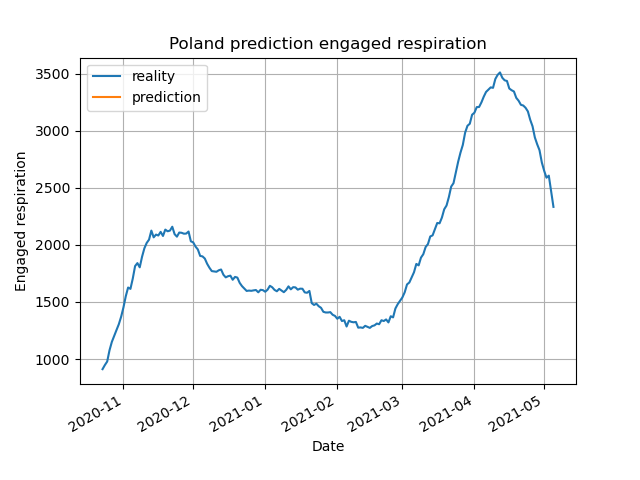
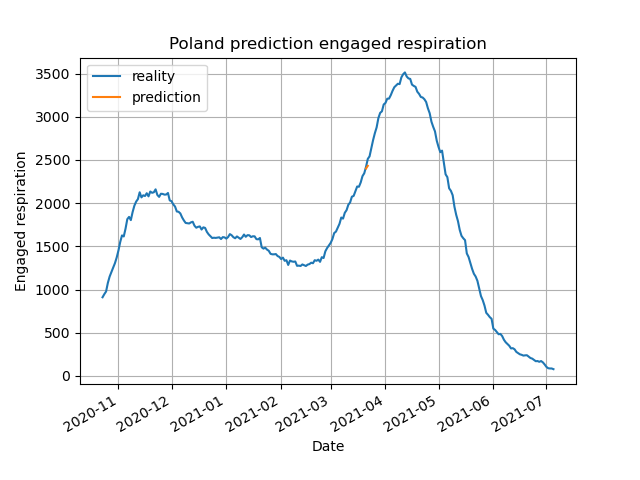
sort by date in get all merge data

diff --git a/RNN/prediction/make_prediction_and_plots.py b/RNN/prediction/make_prediction_and_plots.py
@@ -23,11 +23,11 @@ import pandas as pd
 
 def make_prediction_and_subplot_for_all_regions(last_day_train='2021-03-20', day_ahead=30, period_of_time=14,
                                                 subplot=True):
-    data_all_days = get_all_merge_data()
+    data_all_days_org = get_all_merge_data()
 
     # print(last_day_train)
 
-    data_all_days = data_all_days[data_all_days["region"] != 'POLSKA']
+    data_all_days = data_all_days_org[data_all_days_org["region"] != 'POLSKA']
 
     results = make_prediction_n_days_ahead(data_all_days, day_ahead=day_ahead,
                                                           period_of_time=period_of_time,last_day_train= last_day_train)
@@ -40,7 +40,7 @@ def make_prediction_and_subplot_for_all_regions(last_day_train='2021-03-20', day
 
     # results.iloc[:, -1] = results.iloc[:, -1] * 16
     results.loc[results['region'] == 'POLSKA', 'prediction'] = results.loc[results['region'] == 'POLSKA', 'prediction'] * 16
-    # plot_prediction_to_poland_from_results([results], ['prediction'], get_all_merge_data_from_to())
+    plot_prediction_to_poland_from_results([results], ['prediction'], data_all_days_org)
 
     return results
 

diff --git a/RNN/main.py b/RNN/main.py
@@ -1,7 +1,7 @@
 from RNN.prediction.make_prediction_and_plots import make_prediction_and_subplot_for_all_regions, \
     make_plots_relative_error_for_regions
-result = make_prediction_and_subplot_for_all_regions(day_ahead=1,period_of_time=7)
-# make_plots_relative_error_for_regions(prediction = result)
+result = make_prediction_and_subplot_for_all_regions(day_ahead=30,period_of_time=7)
+make_plots_relative_error_for_regions(prediction = result)
 
 # %% now
 result = make_prediction_and_subplot_for_all_regions(last_day_train= None,day_ahead=2,period_of_time=7)

diff --git a/prepareData/merge/merge_all_data.py b/prepareData/merge/merge_all_data.py
@@ -18,6 +18,7 @@ def get_all_merge_data(number_of_gaussian_noise_regions=1):
     merge_data_all_days = get_merge_data()
     merge_data_all_days = merge_area_population(merge_data_all_days)
     merge_data_all_days = data_augmentation(merge_data_all_days, number_of_gaussian_noise_regions)
+    merge_data_all_days = merge_data_all_days.sort_values(by=['region', 'date'])
     return merge_data_all_days
 
 
